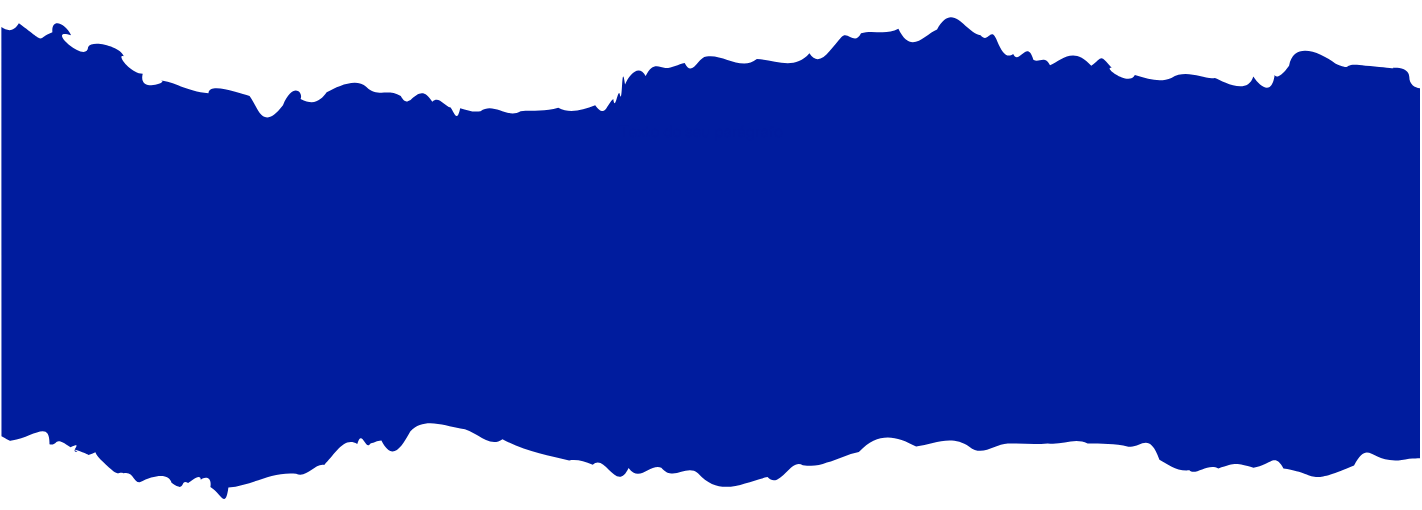
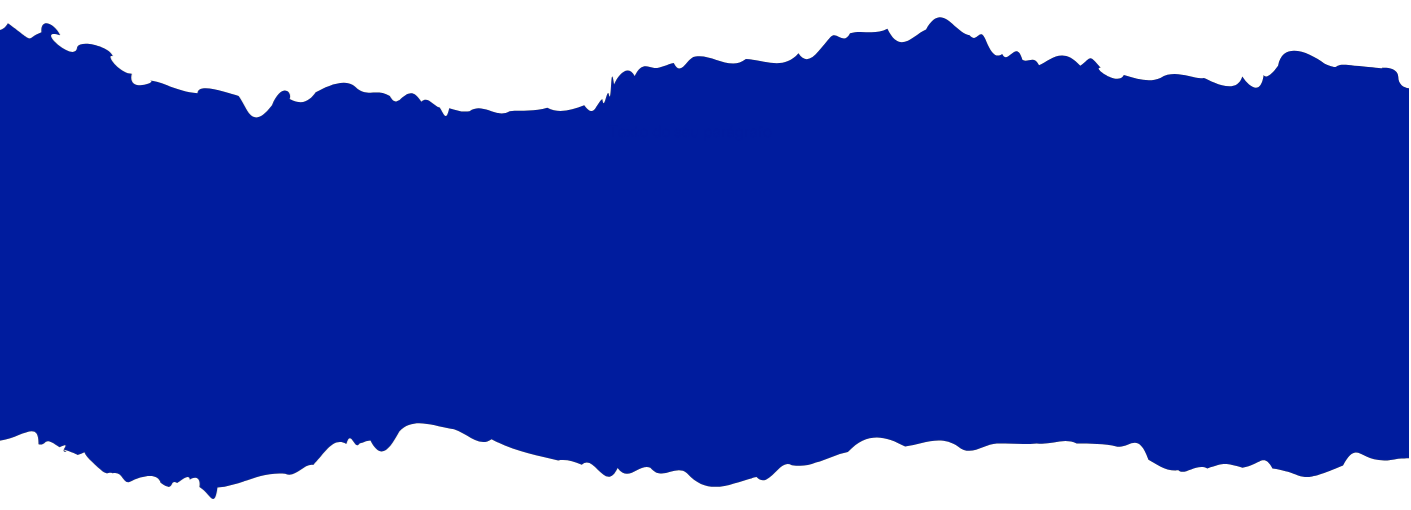
correção do shape e adicionei o botão responsivo no produto em destaque

diff --git a/style.css b/style.css
@@ -160,13 +160,13 @@ nav ul li a:hover::before{
 #shape{
     background-image: url(./Images/Shape.png);
     background-size: 103% 330px;
-    width: 101%;
+    width: 100%;
     margin: 0;
     padding-left: 0;
     position: absolute;
     top: -80px;
     padding-bottom: 5%; 
-    background-repeat: no-repeat;
+    background-repeat: repeat-x;
     z-index: 3;
     left: 0%;
 }
@@ -334,7 +334,7 @@ main{
 
     #shape{
         background-image: url(./Images/shape.png);
-        background-size: 100% 130px;
+        background-size: 103% 130px;
         width: 100%;
         background-repeat: no-repeat;
         top: -30px;
@@ -391,6 +391,13 @@ main{
         background-color: #f4ce0f;
         width: 100%;
         border-radius: 5%;
+        padding-bottom: 20px;
+        padding-top: 10px;
+    }
+
+    #produtoDestaqueIMG{
+        position: relative;
+        left: 0;
     }
 
 

diff --git a/index.html b/index.html
@@ -130,6 +130,7 @@
             <div class="col-sm" id="textoDestaqueResponsivo">
                   <h5 class="card-title" style=" color: #001c9e;"><span class="negrito">Lorem Ipsum é um texto modelo da indústria tipográfica e de impressão.</span></h5>
                   <p class="card-text" style="color: #001c9e;">O Lorem Ipsum tem vindo a ser o texto padrão usado por estas indústrias desde o ano de 1500, quando uma misturou os caracteres.</p>
+                  <button type="button" class="btn btn-primary" id="repDestaqueBtn">Fale com um representante <img id="setaBtnDestaque" src="./Images/Seta.png" alt="" srcset=""></button><br>
             </div>
           </div>
       </section>
